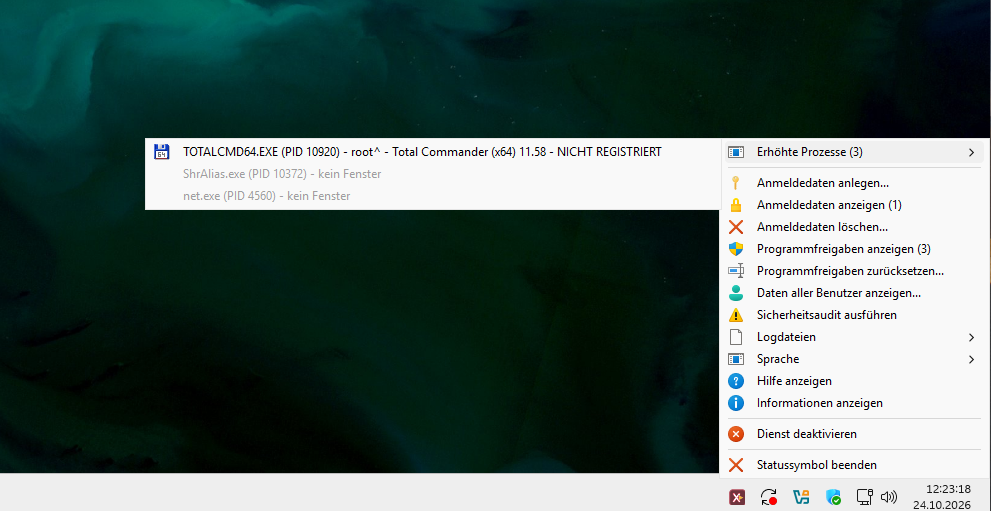
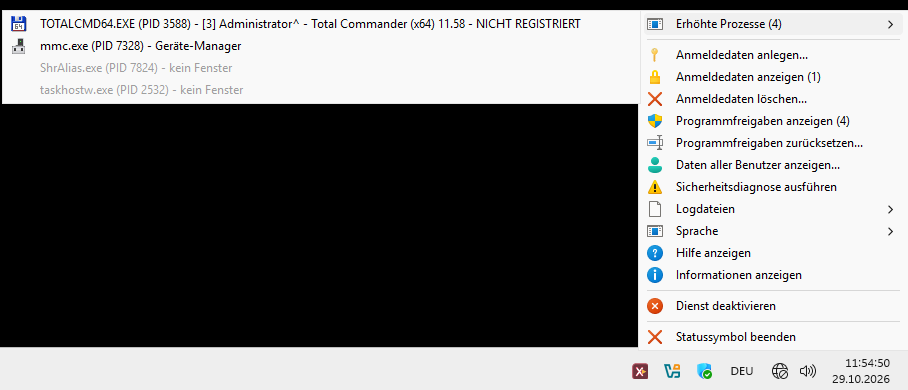
Update security diagnostics presentation
Use scoped diagnostics terminology, clarify installer checks, refresh menu and process screenshots, and pin the updated Core commit.

diff --git a/README.de.md b/README.de.md
@@ -35,7 +35,7 @@ Die Tray-Anwendung:
 - zeigt den aktuellen Benutzerkontext und eine mögliche Erhöhung des Tray-Prozesses;
 - listet verfolgte erhöhte Prozesse und deren Fenster;
 - öffnet xucRun-Dialoge zur Verwaltung von Anmeldedaten und Programmfreigaben;
-- startet Sicherheitsaudit und Informationsansichten von xucRun;
+- startet Sicherheitsdiagnose und Informationsansichten von xucRun;
 - ermöglicht den Zugriff auf konfigurierte Client-Logdateien;
 - wechselt die xucRun-Programmsprache;
 - startet, aktiviert oder deaktiviert den Brokerdienst über die vorhandenen xucRun-Schnittstellen.
@@ -89,11 +89,11 @@ Authenticode-Signatur.
 ### Grafische Installation
 
 Vor dem Öffnen der Installationsoberfläche prüft der Installer, ob eine passende xucRun-
-Installation vorhanden ist. Er prüft Vollständigkeit, Signaturen, Installationspfade und
-Kompatibilität der installierten xucRun-Version. Eine ordnungsgemäße manuelle Installation wird
-nicht allein wegen eines fehlenden Windows-Deinstallationseintrags abgelehnt. Bei fehlender,
-abweichender oder nicht überprüfbarer xucRun-Installation bricht der Installer mit einer
-Fehlermeldung ab.
+Installation vorhanden ist. Er prüft die erforderlichen installierten xucRun-Dateien, deren
+Signaturen, Installationspfade, Version und Kompatibilität. Eine ordnungsgemäße manuelle
+Installation wird nicht allein wegen eines fehlenden Windows-Deinstallationseintrags abgelehnt.
+Bei fehlender, abweichender oder nicht überprüfbarer xucRun-Installation bricht der Installer mit
+einer Fehlermeldung ab.
 
 ![Ablehnung bei fehlender unterstützter xucRun-Installation](docs/de/images/unsupported-core-installation.png)
 
@@ -114,8 +114,8 @@ Starte `xucRun-Tray-<Version>-x64.exe`. Die Benutzerkontensteuerung fordert Admi
 Der Installer:
 
 1. prüft eingebettetes Paket und Produktversion;
-2. prüft Vollständigkeit, Signaturen, Installationspfade und Kompatibilität des installierten
-   xucRun;
+2. prüft die erforderlichen installierten xucRun-Dateien, deren Signaturen, Installationspfade,
+   Version und Kompatibilität;
 3. prüft, ob xucRun Tray und xucRun mit demselben gültigen lokalen xucRun-Signaturzertifikat
    signiert sind;
 4. fragt, für welchen vorhandenen lokalen Windows-Benutzer xucRun Tray automatisch starten soll;
@@ -203,7 +203,7 @@ Abhängig von xucRun-Konfiguration und Berechtigungen bietet das Menü:
 - Anlegen, Anzeigen und Löschen gespeicherter Anmeldedaten;
 - Anzeigen und Zurücksetzen von Programmfreigaben;
 - eine administrative Ansicht über Benutzer hinweg nach der erforderlichen Erhöhung;
-- Sicherheitsaudit, Hilfe und Informationen von xucRun;
+- Sicherheitsdiagnose, Hilfe und Informationen von xucRun;
 - Anzeigen oder Löschen der aktuellen Client-Logdatei;
 - Löschen aller Client-Logdateien im konfigurierten Logverzeichnis nach Bestätigung;
 - automatische, deutsche und englische Sprachwahl;
@@ -290,7 +290,7 @@ dokumentiert in das Windows-Anwendungsereignislog geschrieben.
   bleiben. Der Installer lehnt Pakete ab, deren Tray-Dateien nur teilweise oder nicht einheitlich
   signiert sind.
 - **Die Kommunikation wird als gestört angezeigt:** Prüfe den Brokerdienst und führe über das
-  Tray-Menü oder mit `xucRun.exe /audit` das xucRun-Sicherheitsaudit aus. Das Audit prüft die
+  Tray-Menü oder mit `xucRun.exe /audit` die xucRun-Sicherheitsdiagnose aus. Die Diagnose prüft die
   installierten Tray-Dateien und Signaturen, die Deinstallationsregistrierung und die
   benutzerbezogenen Autostartaufgaben.
 - **Menüaktionen sind nicht verfügbar:** Der Brokerdienst kann beendet, die Kommunikation kann

diff --git a/README.md b/README.md
@@ -34,7 +34,7 @@ The Tray application:
 - shows the current user context and whether the xucRun Tray process is elevated;
 - lists tracked elevated processes and their windows;
 - opens xucRun dialogs for managing credentials and program approvals;
-- starts the xucRun security audit and information views;
+- starts the xucRun security diagnostics and information views;
 - provides access to configured client log files;
 - switches the xucRun application language;
 - starts, enables, or disables the broker service through the existing xucRun interfaces.
@@ -87,8 +87,8 @@ publisher when it starts. Before starting it, compare its SHA-256 checksum with
 ### Graphical installation
 
 Before opening the installation interface, the installer checks for a compatible xucRun
-installation. It checks the installed xucRun version for completeness, signatures, installation
-paths, and compatibility. A properly configured manual installation is therefore not rejected
+installation. It checks the required installed xucRun files, their signatures, installation paths,
+version, and compatibility. A properly configured manual installation is therefore not rejected
 solely because its Windows uninstall entry is missing. The installer stops with an error if xucRun
 is missing, incompatible, or unverifiable.
 
@@ -110,7 +110,8 @@ Start `xucRun-Tray-<Version>-x64.exe`. User Account Control requests administrat
 installer then:
 
 1. verifies its embedded package and product version;
-2. checks the installed xucRun for completeness, signatures, installation paths, and compatibility;
+2. checks the required installed xucRun files, their signatures, installation paths, version, and
+   compatibility;
 3. checks whether xucRun Tray and xucRun are signed with the same valid local xucRun signing
    certificate;
 4. asks which existing local Windows user should start xucRun Tray automatically;
@@ -193,7 +194,7 @@ Depending on the current xucRun configuration and permissions, the menu provides
 - creating, listing, and deleting stored credentials;
 - listing and resetting program approvals;
 - an administrative view across users after the required elevation;
-- the xucRun security audit, help, and information;
+- the xucRun security diagnostics, help, and information;
 - displaying or deleting the current client log file;
 - deleting all client log files from the configured log directory after confirmation;
 - automatic, German, and English language selection;
@@ -274,8 +275,8 @@ and errors continue to use the Windows Application event log as documented by xu
   existing non-exportable private key to remain available on that computer. The installer rejects
   packages whose Tray files are only partially or inconsistently signed.
 - **Communication is shown as degraded:** Check the broker service state and run the xucRun security
-  audit from the xucRun Tray menu or with `xucRun.exe /audit`. The audit checks the installed Tray files
-  and signatures, uninstall registration, and per-user autostart tasks.
+  diagnostics from the xucRun Tray menu or with `xucRun.exe /audit`. The diagnostics check the
+  installed Tray files and signatures, uninstall registration, and per-user autostart tasks.
 - **Menu actions are unavailable:** The broker service may be stopped, communication may be
   unavailable, or the current account may lack the required permissions.
 - **Tray cannot start after a manual file copy:** Use the installer. Version, protected path,
